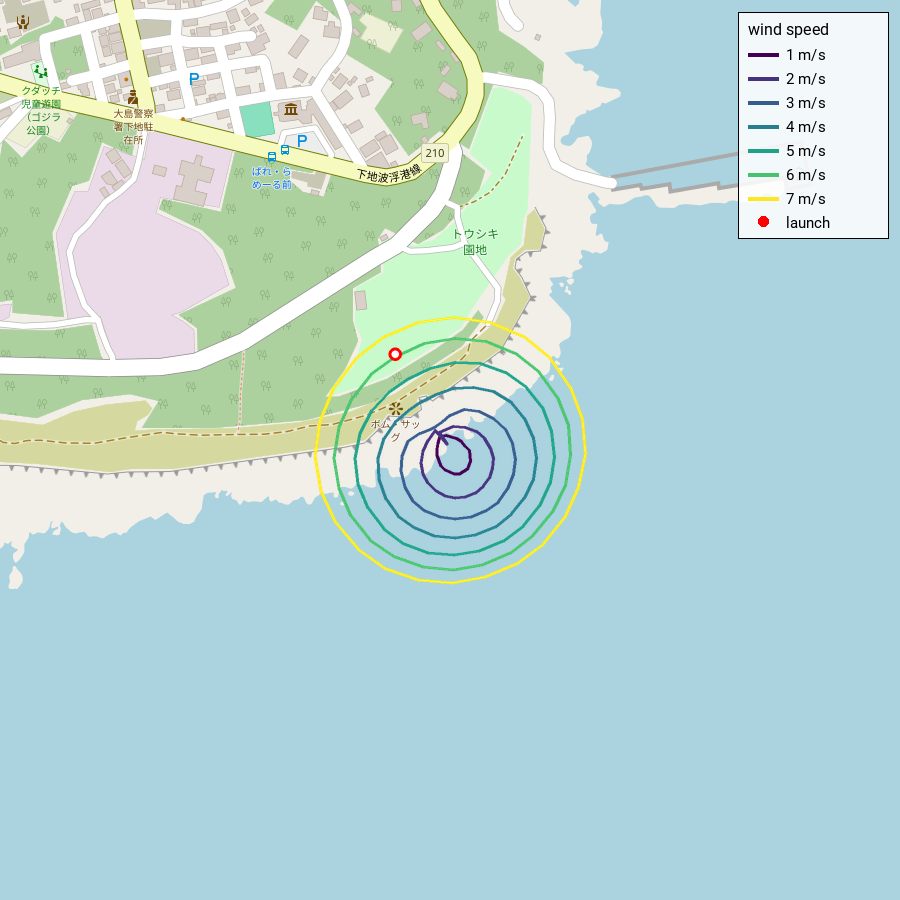
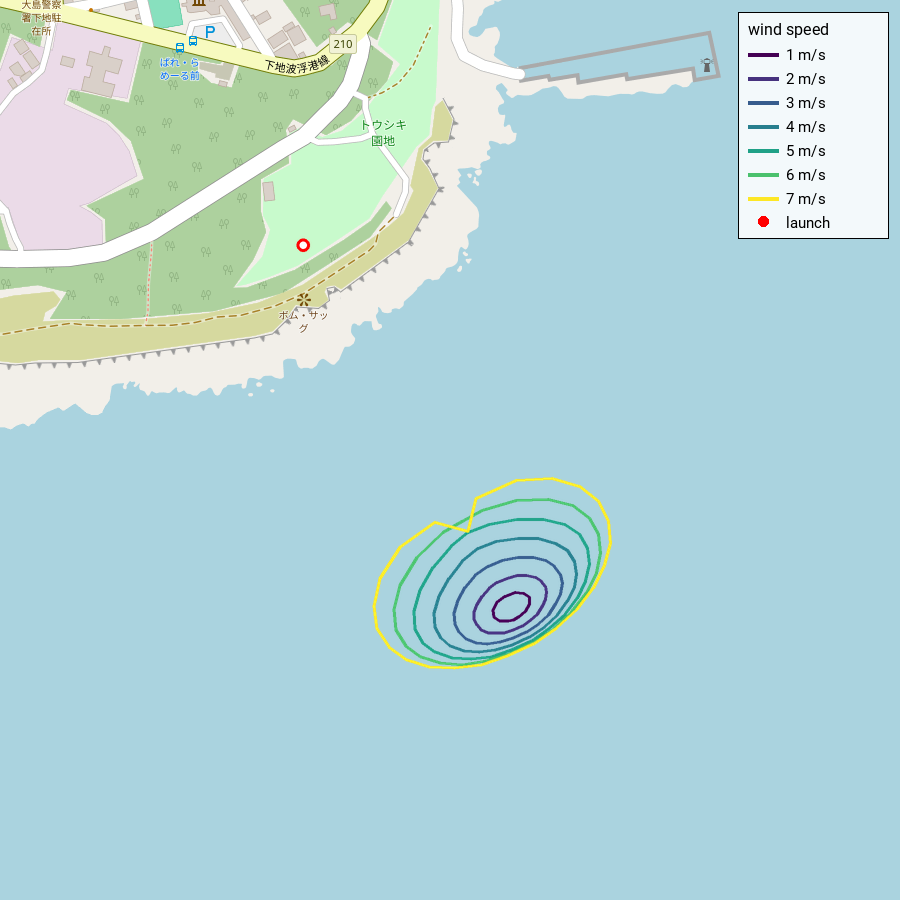
[fix] tilt landing-dispersion example downrange so it lands offshore
The landing-dispersion example launched near-vertical (elevation 85 deg), so the
ground-hit points fell on and around the launch site itself -- on land, which is
exactly what range safety must avoid. The nearest landing was ~2 m from the pad.

Tilt the launcher downrange instead: elevation 85 -> 72 deg (azimuth is ~150 deg,
i.e. SSE toward the open sea at Izu Oshima / Toshiki). The rocket now flies out
over the water and the whole dispersion -- every wind speed up to 7 m/s -- lands
offshore, ~300-450 m downrange of the pad, clear of land. This also makes the
example a more honest range-safety demonstration.

  - config.toml: elevation 85 -> 72.
  - dispersion.png / dispersion-map.png: regenerated (the map now shows the
    dispersion entirely over the sea).
  - plot.gp / plot-map.py: output path 85 -> 72.
  - READMEs: updated numbers (apogee ~279-344 m) and the range-safety note.

Apogee drops to ~279-344 m (from ~329-360 m) as expected for the flatter launch.

Claude-Session: https://claude.ai/code/session_01LiKBVgTqjZV84zcMVY3w46

diff --git a/examples/landing-dispersion/plot-map.py b/examples/landing-dispersion/plot-map.py
@@ -7,7 +7,7 @@ per wind speed over OSM tiles (staticmap), with a legend.
 
 Run via uv from this directory (after trochia has produced output/):
     uv run plot-map.py                 # -> dispersion-map.png
-    uv run plot-map.py output/85/ghp.csv my-map.png
+    uv run plot-map.py output/72/ghp.csv my-map.png
 """
 import csv
 import sys
@@ -22,7 +22,7 @@ LAUNCH_LAT, LAUNCH_LON, LAUNCH_ALT = 34.679730, 139.438373, 39.4422
 # viridis-ish colours, one per wind speed (m/s)
 COLORS = ["#440154", "#46327e", "#365c8d", "#277f8e", "#1fa187", "#4ac16d", "#fde725"]
 
-GHP = sys.argv[1] if len(sys.argv) > 1 else "output/85/ghp.csv"
+GHP = sys.argv[1] if len(sys.argv) > 1 else "output/72/ghp.csv"
 OUT = sys.argv[2] if len(sys.argv) > 2 else "dispersion-map.png"
 
 

diff --git a/examples/landing-dispersion/README.md b/examples/landing-dispersion/README.md
@@ -3,21 +3,25 @@
 **Use case:** estimate the landing dispersion (落下分散) by sweeping wind speed
 and direction — the spread of ground-hit points used for range-safety planning.
 
-Elevation 85 deg, wind speed 1-7 m/s x direction every 15 deg (0..360) = 175 runs.
+Elevation 72 deg, wind speed 1-7 m/s x direction every 15 deg (0..360) = 175 runs.
+The launcher is tilted downrange (azimuth ~150 deg, toward the open sea) so the
+whole dispersion clears the launch site — see the map below.
 
 ## Run
 
 ```sh
 ../fetch-engine.sh            # once: downloads ../20191020_01.eng
-../../build/bin/trochia        # 32 runs -> output/85/ghp.csv (+ per-case *.dat)
+../../build/bin/trochia        # 175 runs -> output/72/ghp.csv (+ per-case *.dat)
 gnuplot plot.gp                # -> dispersion.png
 ```
 
 ## Result
 
-One smooth closed loop per wind speed (24 directions, 15 deg apart). Dispersion
-grows with wind (radius ~134 m at 1 m/s to ~237 m at 7 m/s) while apogee drops
-(~360 -> ~329 m) as the rocket weathercocks into the wind.
+One smooth closed loop per wind speed (24 directions, 15 deg apart); apogee
+~279-344 m, dropping with wind as the rocket weathercocks. Because the launcher
+is tilted ~18 deg off vertical toward the open sea, every loop — even the 7 m/s
+one — lands offshore, ~300-450 m downrange of the pad. A near-vertical launch
+would instead drop the dispersion onto the launch site (dangerous).
 
 ![landing dispersion](dispersion.png)
 
@@ -39,5 +43,5 @@ convert-ghp.py and view-ghp.html live), so `ghp-output.js` is written next to th
 HTML:
 
 ```sh
-uv run convert-ghp.py examples/landing-dispersion/output/85/ghp.csv
+uv run convert-ghp.py examples/landing-dispersion/output/72/ghp.csv
 ```

diff --git a/README.md b/README.md
@@ -45,7 +45,8 @@ Runnable use cases live in [`examples/`](examples/) (one directory each, with
 config, a plotting script and a committed result plot). For example, the
 [landing-dispersion](examples/landing-dispersion/) example sweeps wind speed ×
 direction and plots the ground-hit points — here overlaid on the launch site
-(Izu Oshima) to show which landings fall on land vs. in the sea:
+(Izu Oshima), with the launcher tilted downrange so the whole dispersion falls
+offshore, clear of land:
 
 ![landing dispersion on a map](examples/landing-dispersion/dispersion-map.png)
 